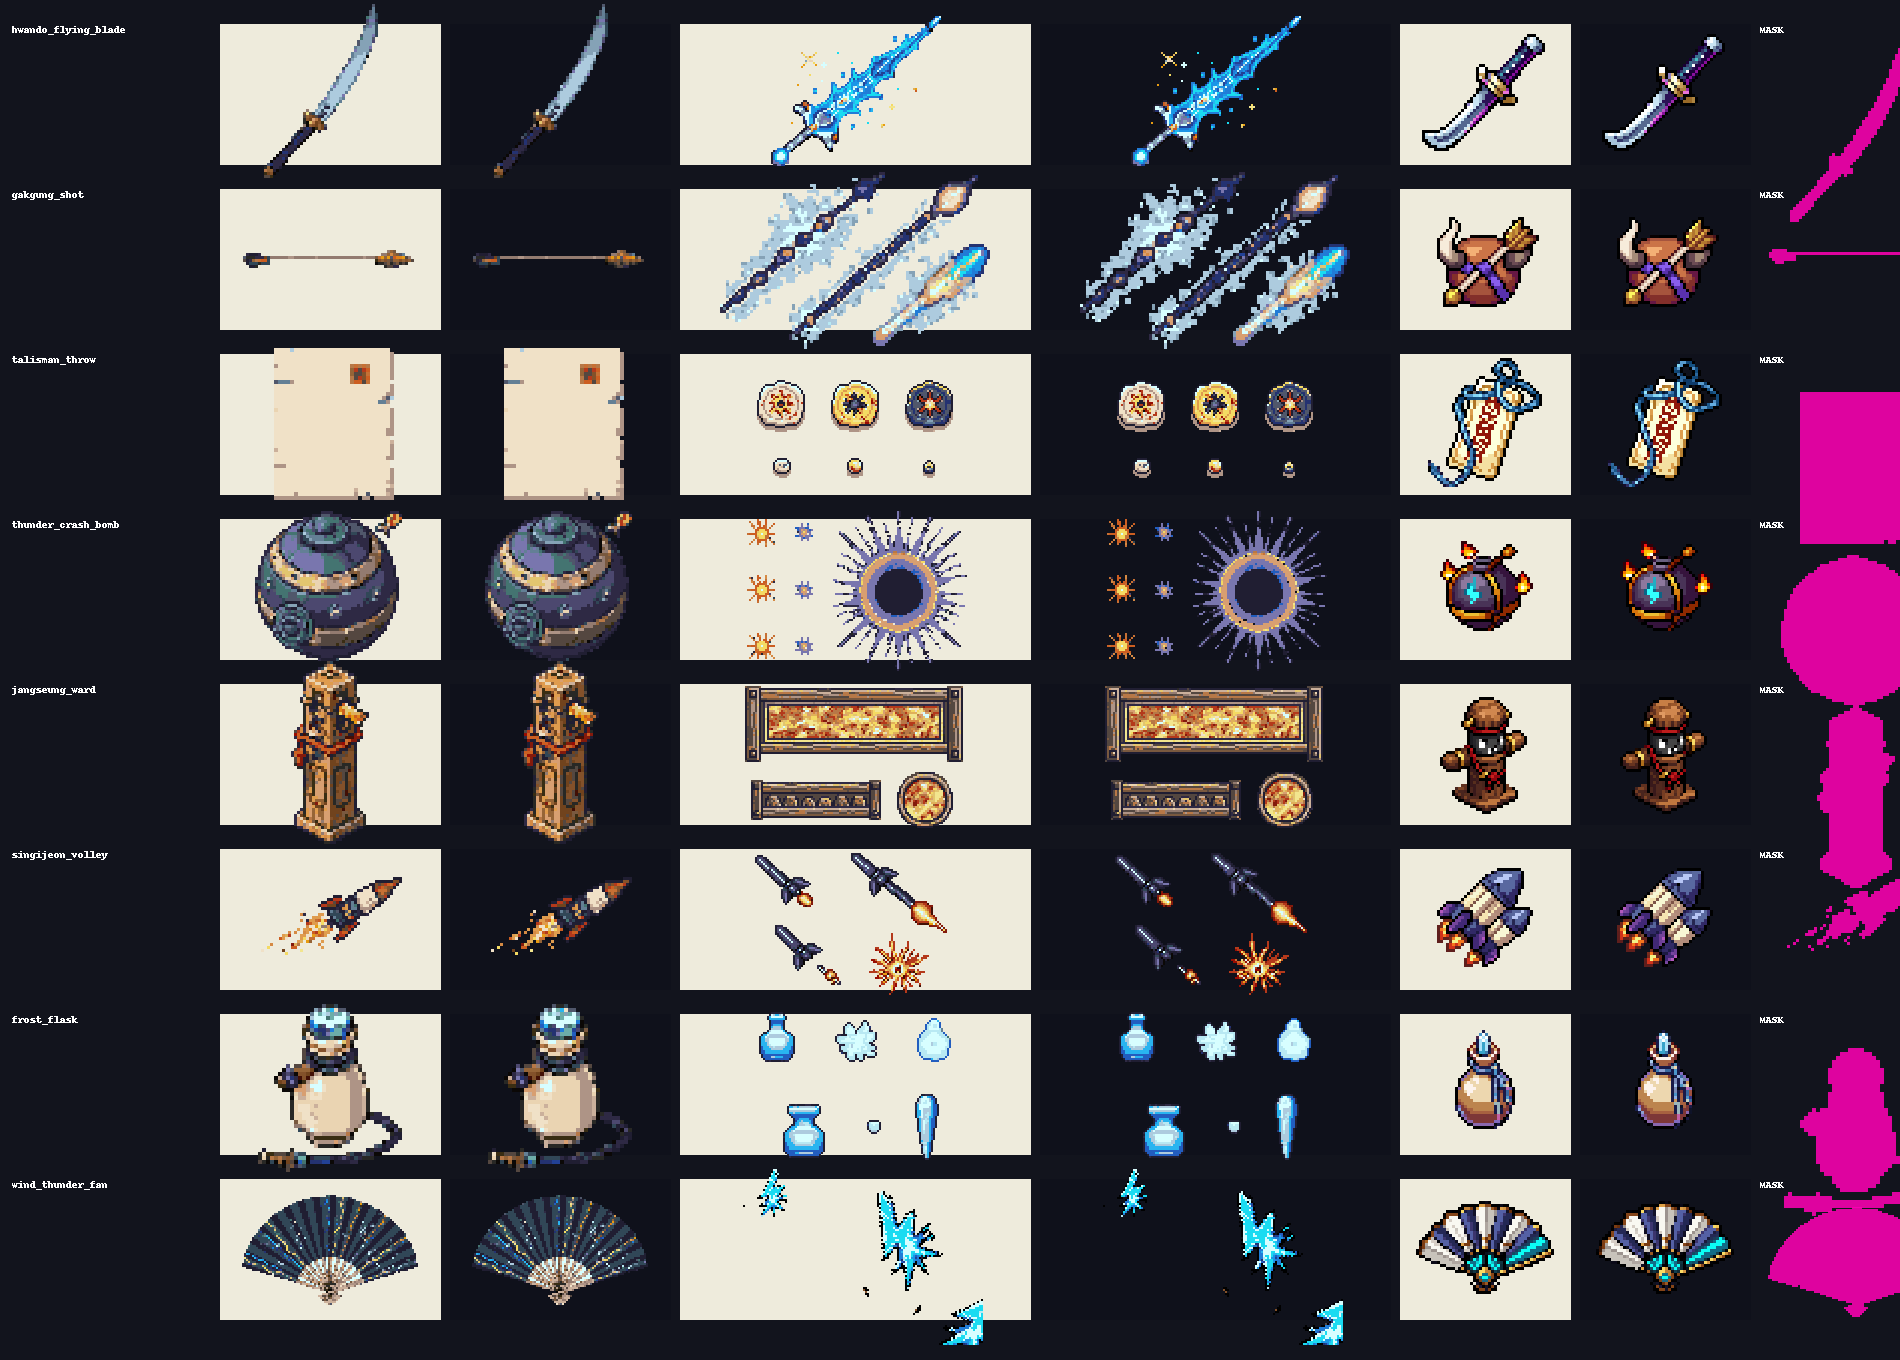
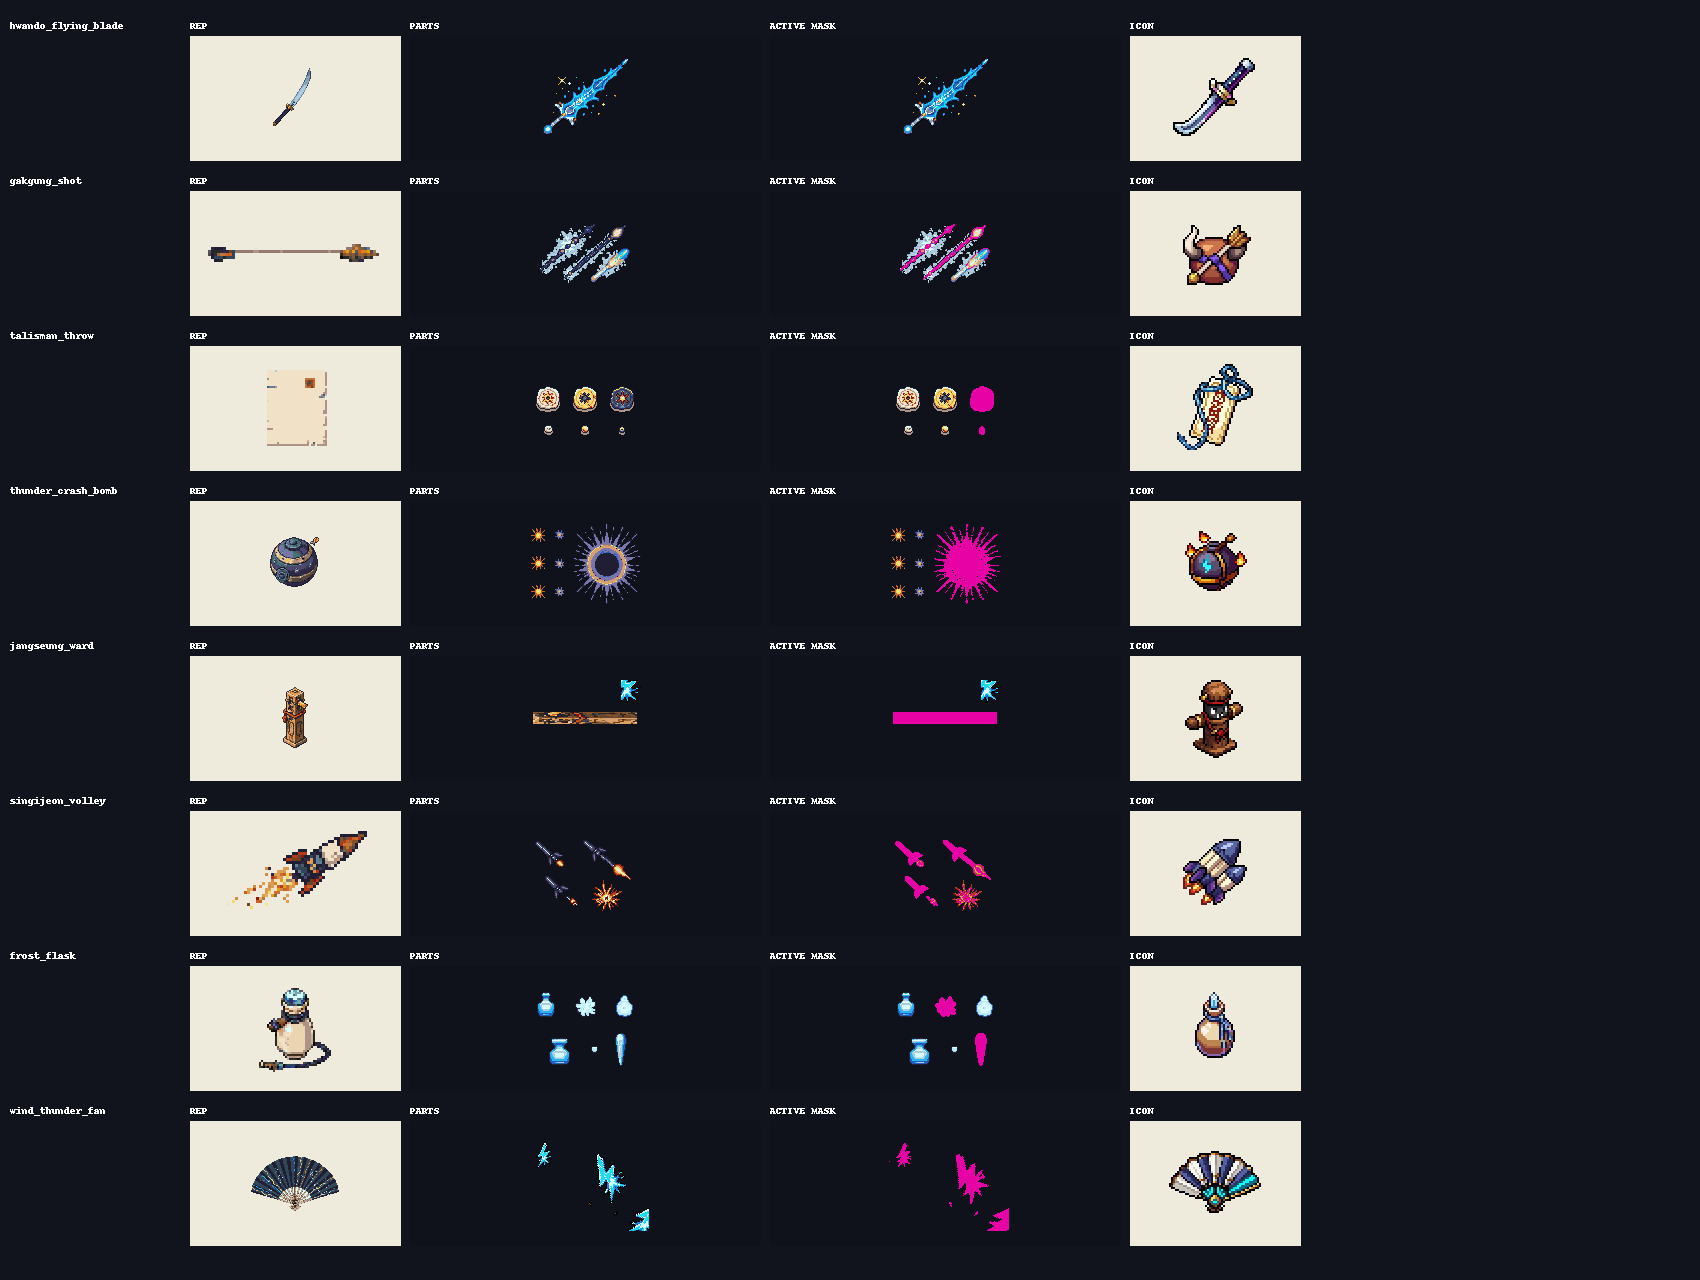
fix: refine weapon contact masks

diff --git a/ArtSource/Pixel/Weapons/jangseung_ward/prompt.md b/ArtSource/Pixel/Weapons/jangseung_ward/prompt.md
@@ -1,6 +1,6 @@
 # jangseung_ward
 
 - Representative: one carved wooden jangseung post.
-- Secondary: finite repeatable boundary segment, crossing flash, and ward seal.
+- Secondary: thin finite boundary segment locally derived from the approved post wood pixels, plus a style-lock crossing flash.
 - Icon: carved ward post, transparent 48×48.
 - Shared style: `../style-lock/style-lock.png`.
